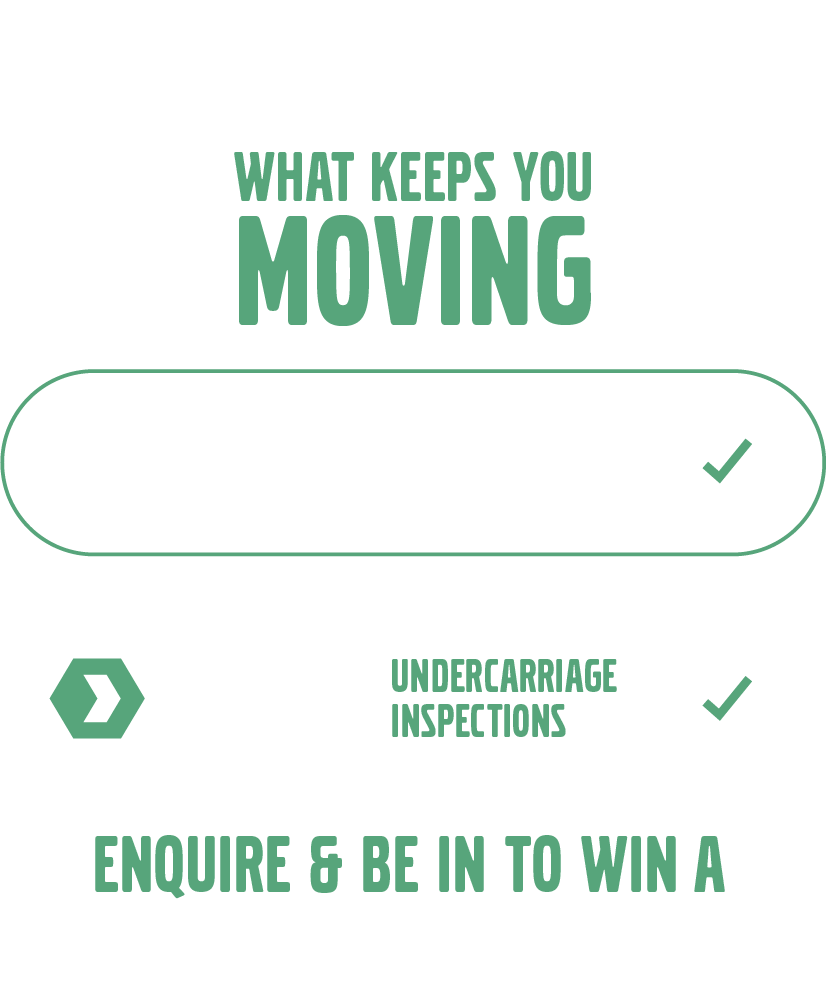
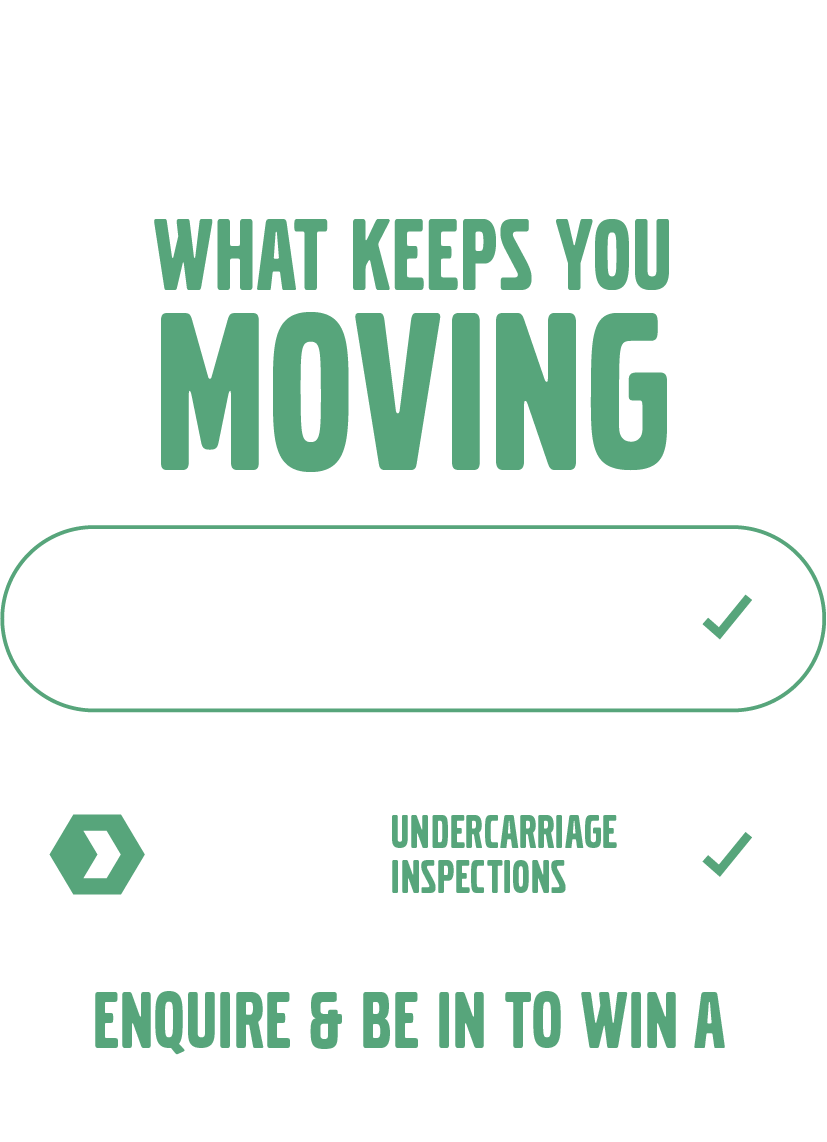
...

diff --git a/html/home.html b/html/home.html
@@ -536,7 +536,7 @@
                                         <div class="content">
                                             <div >
                                                 <a href="/volvo-undercarriage" style=" display: block">
-                                                <img src="/images/2026/6-5-volvo-undercarriage/[email redacted]" >
+                                                <img src="/images/2026/6-5-volvo-undercarriage/[email redacted]" >
                                                 </a>
                                                 <span class="content-spacer h5"></span>
                                             </div>